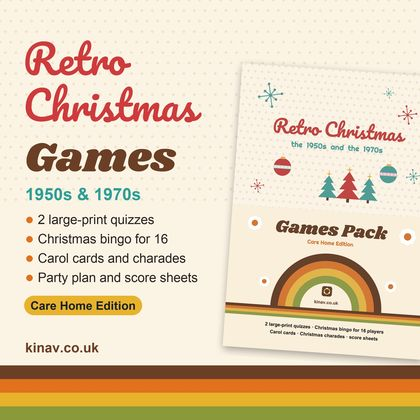
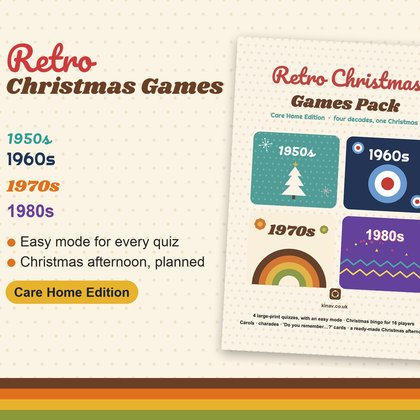
Planners page: Retro Christmas games now cover four decades, with new pictures

diff --git a/app/planners/index.html b/app/planners/index.html
@@ -26,7 +26,7 @@
 <nav class="crumbs" aria-label="Breadcrumb"><a href="/guides/">Guides</a></nav>
 <div class="stack-sm"><h1>Printable planners and calendars for carers</h1><p class="lede">Planners, checklists and calendars to print or fill in on screen, made in the UK by Kinav for families caring for an older parent.</p><p class="small"><a href="#christmas">Christmas games, activities and gifts</a> · <a href="#planners">Planners and calendars</a> · <a href="#kits">Checklists and kits</a> · <a href="#activities">Activities</a></p></div>
 <p class="panel small">Everything free on kinav.co.uk stays free. These printables are sold in the Kinav shop on Etsy, which helps keep Kinav running. Links open Etsy. To come back to Kinav, use your back button or swipe back.</p>
-<section class="stack-sm" id="christmas"><h2>Christmas games, activities and gifts</h2><div class="pp-grid"><a class="pp" href="https://www.etsy.com/listing/4612582895/christmas-bundle-for-older-relatives" rel="noopener"><img src="/shop-img/christmas-bundle.jpg" alt="" loading="lazy" width="420" height="420"><span><b>The Kinav Christmas Bundle</b><small>Retro Christmas games, Let&#x27;s Talk Christmas cards and the gift planner, together. Save over 30%.</small><em>See it in the Kinav Etsy shop ›</em></span></a><a class="pp" href="https://www.etsy.com/listing/4611384577/christmas-gift-planner-app-for-carers" rel="noopener"><img src="/shop-img/christmas-gift-planner.jpg" alt="" loading="lazy" width="420" height="420"><span><b>Christmas Gift Planner for carers</b><small>Budgets, bought, wrapped and given, and gifts from the person you care for. An app plus a printable planner.</small><em>See it in the Kinav Etsy shop ›</em></span></a><a class="pp" href="https://www.etsy.com/listing/4611376412/christmas-activities-for-care-homes-24" rel="noopener"><img src="/shop-img/christmas-activity-programme.jpg" alt="" loading="lazy" width="420" height="420"><span><b>24 Days of December, for care homes</b><small>A ready-to-run Christmas activity for every day of Advent, with three ways for every resident to join in.</small><em>See it in the Kinav Etsy shop ›</em></span></a><a class="pp" href="https://www.etsy.com/listing/4610679958/christmas-activity-reminiscence-cards" rel="noopener"><img src="/shop-img/christmas-cards.jpg" alt="" loading="lazy" width="420" height="420"><span><b>Let&#x27;s Talk Christmas pack</b><small>Christmas reminiscence cards, a quiz and word search to share Christmas memories.</small><em>See it in the Kinav Etsy shop ›</em></span></a><a class="pp" href="https://www.etsy.com/listing/4610619702/care-home-christmas-activity-pack" rel="noopener"><img src="/shop-img/christmas-cards-care-home.jpg" alt="" loading="lazy" width="420" height="420"><span><b>Let&#x27;s Talk Christmas pack: care home edition</b><small>Christmas memory cards and activities, licensed for a care home.</small><em>See it in the Kinav Etsy shop ›</em></span></a><a class="pp" href="https://www.etsy.com/listing/4610674187/printable-party-games-grandparent-gift" rel="noopener"><img src="/shop-img/retro-christmas-games.jpg" alt="" loading="lazy" width="420" height="420"><span><b>Retro Christmas games</b><small>1950s and 1970s Christmas quizzes, finish-the-carol cards, charades and bingo, in large print.</small><em>See it in the Kinav Etsy shop ›</em></span></a><a class="pp" href="https://www.etsy.com/listing/4610697448/care-home-christmas-activities-retro" rel="noopener"><img src="/shop-img/retro-christmas-games-care-home.jpg" alt="" loading="lazy" width="420" height="420"><span><b>Retro Christmas games: care home edition</b><small>The retro games, licensed for a care home or day centre.</small><em>See it in the Kinav Etsy shop ›</em></span></a></div></section>
+<section class="stack-sm" id="christmas"><h2>Christmas games, activities and gifts</h2><div class="pp-grid"><a class="pp" href="https://www.etsy.com/listing/4612582895/christmas-bundle-for-older-relatives" rel="noopener"><img src="/shop-img/christmas-bundle.jpg" alt="" loading="lazy" width="420" height="420"><span><b>The Kinav Christmas Bundle</b><small>Retro Christmas games, Let&#x27;s Talk Christmas cards and the gift planner, together. Save over 30%.</small><em>See it in the Kinav Etsy shop ›</em></span></a><a class="pp" href="https://www.etsy.com/listing/4611384577/christmas-gift-planner-app-for-carers" rel="noopener"><img src="/shop-img/christmas-gift-planner.jpg" alt="" loading="lazy" width="420" height="420"><span><b>Christmas Gift Planner for carers</b><small>Budgets, bought, wrapped and given, and gifts from the person you care for. An app plus a printable planner.</small><em>See it in the Kinav Etsy shop ›</em></span></a><a class="pp" href="https://www.etsy.com/listing/4611376412/christmas-activities-for-care-homes-24" rel="noopener"><img src="/shop-img/christmas-activity-programme.jpg" alt="" loading="lazy" width="420" height="420"><span><b>24 Days of December, for care homes</b><small>A ready-to-run Christmas activity for every day of Advent, with three ways for every resident to join in.</small><em>See it in the Kinav Etsy shop ›</em></span></a><a class="pp" href="https://www.etsy.com/listing/4610679958/christmas-activity-reminiscence-cards" rel="noopener"><img src="/shop-img/christmas-cards.jpg" alt="" loading="lazy" width="420" height="420"><span><b>Let&#x27;s Talk Christmas pack</b><small>Christmas reminiscence cards, a quiz and word search to share Christmas memories.</small><em>See it in the Kinav Etsy shop ›</em></span></a><a class="pp" href="https://www.etsy.com/listing/4610619702/care-home-christmas-activity-pack" rel="noopener"><img src="/shop-img/christmas-cards-care-home.jpg" alt="" loading="lazy" width="420" height="420"><span><b>Let&#x27;s Talk Christmas pack: care home edition</b><small>Christmas memory cards and activities, licensed for a care home.</small><em>See it in the Kinav Etsy shop ›</em></span></a><a class="pp" href="https://www.etsy.com/listing/4610674187/printable-party-games-grandparent-gift" rel="noopener"><img src="/shop-img/retro-christmas-games.jpg" alt="" loading="lazy" width="420" height="420"><span><b>Retro Christmas games</b><small>Christmas quizzes from the 1950s to the 1980s, so everyone plays their decade. Bingo, carols, charades and an easy mode.</small><em>See it in the Kinav Etsy shop ›</em></span></a><a class="pp" href="https://www.etsy.com/listing/4610697448/care-home-christmas-activities-retro" rel="noopener"><img src="/shop-img/retro-christmas-games-care-home.jpg" alt="" loading="lazy" width="420" height="420"><span><b>Retro Christmas games: care home edition</b><small>Four decades of Christmas quizzes, with an easy mode, licensed for a care home or day centre.</small><em>See it in the Kinav Etsy shop ›</em></span></a></div></section>
 <section class="stack-sm" id="planners"><h2>Planners and calendars</h2><div class="pp-grid"><a class="pp" href="https://www.etsy.com/listing/4610543809/2027-large-print-calendar-printable" rel="noopener"><img src="/shop-img/calendar-2027.jpg" alt="" loading="lazy" width="420" height="420"><span><b>2027 large-print calendar</b><small>Big, clear months for appointments, visits and bin days. Print it or fill it in on screen.</small><em>See it in the Kinav Etsy shop ›</em></span></a><a class="pp" href="https://www.etsy.com/listing/4610544522/elderly-parent-care-binder-125-page" rel="noopener"><img src="/shop-img/care-binder.jpg" alt="" loading="lazy" width="420" height="420"><span><b>Elderly parent care binder (UK)</b><small>174 pages: every Kinav planner and kit in one binder, in three colour styles.</small><em>See it in the Kinav Etsy shop ›</em></span></a><a class="pp" href="https://www.etsy.com/listing/4606518980/care-planning" rel="noopener"><img src="/shop-img/care-planner.jpg" alt="" loading="lazy" width="420" height="420"><span><b>Elderly parent care planner</b><small>Contacts, medicines list, appointments and who does what.</small><em>See it in the Kinav Etsy shop ›</em></span></a><a class="pp" href="https://www.etsy.com/listing/4611074567/carers-budget-planner-uk-printable-pdf" rel="noopener"><img src="/shop-img/carers-budget-planner.jpg" alt="" loading="lazy" width="420" height="420"><span><b>Carer&#x27;s budget planner</b><small>Monthly budget, caring costs and who pays what. Printable, plus an Excel spreadsheet.</small><em>See it in the Kinav Etsy shop ›</em></span></a><a class="pp" href="https://www.etsy.com/listing/4611241685/care-organiser-spreadsheet-uk-medication" rel="noopener"><img src="/shop-img/care-spreadsheet.jpg" alt="" loading="lazy" width="420" height="420"><span><b>Care organiser spreadsheet</b><small>Medicines chart, health log, appointments and care costs that add themselves up. For Excel and Google Sheets.</small><em>See it in the Kinav Etsy shop ›</em></span></a><a class="pp" href="https://www.etsy.com/listing/4610530561/caregiver-daily-log-printable-fillable" rel="noopener"><img src="/shop-img/daily-log.jpg" alt="" loading="lazy" width="420" height="420"><span><b>Caregiver daily log</b><small>Daily notes and handover sheets for the family or carers.</small><em>See it in the Kinav Etsy shop ›</em></span></a><a class="pp" href="https://www.etsy.com/listing/4610524094/dementia-care-planner-uk-printable" rel="noopener"><img src="/shop-img/dementia-planner.jpg" alt="" loading="lazy" width="420" height="420"><span><b>Dementia care planner</b><small>Routines, what helps, and planning ahead, for families caring for someone with dementia.</small><em>See it in the Kinav Etsy shop ›</em></span></a><a class="pp" href="https://www.etsy.com/listing/4610527265/just-in-case-binder-uk-life-admin" rel="noopener"><img src="/shop-img/life-admin-binder.jpg" alt="" loading="lazy" width="420" height="420"><span><b>Just-in-case binder</b><small>Where everything is, who to call, accounts and wishes, in one place.</small><em>See it in the Kinav Etsy shop ›</em></span></a><a class="pp" href="https://www.etsy.com/listing/4610501544/elderly-parent-care-bundle-care-planner" rel="noopener"><img src="/shop-img/bundle.jpg" alt="" loading="lazy" width="420" height="420"><span><b>Complete carer&#x27;s bundle</b><small>The main planners and checklists together, for less.</small><em>See it in the Kinav Etsy shop ›</em></span></a></div></section>
 <section class="stack-sm" id="kits"><h2>Checklists and kits</h2><div class="pp-grid"><a class="pp" href="https://www.etsy.com/listing/4610570617/attendance-allowance-claim-kit-uk" rel="noopener"><img src="/shop-img/attendance-allowance.jpg" alt="" loading="lazy" width="420" height="420"><span><b>Attendance Allowance claim kit</b><small>A care diary and prompts for the form, so you don&#x27;t miss what matters.</small><em>See it in the Kinav Etsy shop ›</em></span></a><a class="pp" href="https://www.etsy.com/listing/4611923791/care-needs-assessment-kit-uk-pdf-and" rel="noopener"><img src="/shop-img/needs-assessment.jpg" alt="" loading="lazy" width="420" height="420"><span><b>Care needs assessment kit</b><small>Get ready for the council&#x27;s assessment, with a diary and letters.</small><em>See it in the Kinav Etsy shop ›</em></span></a><a class="pp" href="https://www.etsy.com/listing/4610469119/hospital-discharge-checklist-printable" rel="noopener"><img src="/shop-img/hospital-discharge.jpg" alt="" loading="lazy" width="420" height="420"><span><b>Leaving hospital checklist</b><small>Questions for the ward and getting the home ready.</small><em>See it in the Kinav Etsy shop ›</em></span></a><a class="pp" href="https://www.etsy.com/listing/4610539380/care-home-visit-checklist-printable-and" rel="noopener"><img src="/shop-img/care-home-visit-pack.jpg" alt="" loading="lazy" width="420" height="420"><span><b>Care home visit checklist</b><small>Questions to ask, a scorecard and a side-by-side comparison.</small><em>See it in the Kinav Etsy shop ›</em></span></a><a class="pp" href="https://www.etsy.com/listing/4611943646/moving-into-a-care-home-checklist-pdf" rel="noopener"><img src="/shop-img/moving-into-a-care-home.jpg" alt="" loading="lazy" width="420" height="420"><span><b>Moving into a care home</b><small>Packing list, an &#x27;About me&#x27; profile and the first weeks.</small><em>See it in the Kinav Etsy shop ›</em></span></a><a class="pp" href="https://www.etsy.com/listing/4611932219/lasting-power-of-attorney-kit-pdf-and" rel="noopener"><img src="/shop-img/lpa-organiser.jpg" alt="" loading="lazy" width="420" height="420"><span><b>Lasting Power of Attorney kit</b><small>Step by step, with a record book for attorneys.</small><em>See it in the Kinav Etsy shop ›</em></span></a><a class="pp" href="https://www.etsy.com/shop/KinavUK?search_query=bills+and+paperwork" rel="noopener"><img src="/shop-img/household-paperwork.jpg" alt="" loading="lazy" width="420" height="420"><span><b>Bills and paperwork kit</b><small>Accounts, direct debits and paperwork, all in one place.</small><em>See it in the Kinav Etsy shop ›</em></span></a><a class="pp" href="https://www.etsy.com/shop/KinavUK?search_query=emergency+plan" rel="noopener"><img src="/shop-img/carers-emergency-plan.jpg" alt="" loading="lazy" width="420" height="420"><span><b>Carer&#x27;s emergency plan</b><small>An &#x27;if I can&#x27;t be there&#x27; plan and a wallet card.</small><em>See it in the Kinav Etsy shop ›</em></span></a><a class="pp" href="https://www.etsy.com/listing/4605940380/planning-ahead-pack-end-of-life-planner" rel="noopener"><img src="/shop-img/planning-ahead.jpg" alt="" loading="lazy" width="420" height="420"><span><b>Planning ahead pack</b><small>Wishes, will and power of attorney checklists.</small><em>See it in the Kinav Etsy shop ›</em></span></a><a class="pp" href="https://www.etsy.com/listing/4610477309/after-a-death-checklist-printable" rel="noopener"><img src="/shop-img/after-a-death.jpg" alt="" loading="lazy" width="420" height="420"><span><b>After a death checklist</b><small>What to do, who to tell, and funeral planning.</small><em>See it in the Kinav Etsy shop ›</em></span></a><a class="pp" href="https://www.etsy.com/shop/KinavUK?search_query=divorce+planner" rel="noopener"><img src="/shop-img/later-life-divorce.jpg" alt="" loading="lazy" width="420" height="420"><span><b>Divorce planner, over 60</b><small>Money, pensions and the home, step by step.</small><em>See it in the Kinav Etsy shop ›</em></span></a><a class="pp" href="https://www.etsy.com/listing/4610484887/carer-letter-templates-editable-word-and" rel="noopener"><img src="/shop-img/letter-pack.jpg" alt="" loading="lazy" width="420" height="420"><span><b>Carer letter templates</b><small>Editable letters for the council, employers and more.</small><em>See it in the Kinav Etsy shop ›</em></span></a></div></section>
 <section class="stack-sm" id="activities"><h2>Activities</h2><div class="pp-grid"><a class="pp" href="https://www.etsy.com/listing/4611935151/reminiscence-cards-for-elderly-128" rel="noopener"><img src="/shop-img/reminiscence-cards.jpg" alt="" loading="lazy" width="420" height="420"><span><b>Let&#x27;s Talk reminiscence cards</b><small>120 cards to spark memories and conversation, at home or in a care home.</small><em>See it in the Kinav Etsy shop ›</em></span></a></div></section>

diff --git a/app/index.html b/app/index.html
@@ -381,7 +381,7 @@ a.chip { display: inline-flex; align-items: center; text-decoration: none; }
     <a class="stile s-kits" href="#help"><span class="sico"><svg width="22" height="22" viewBox="0 0 24 24" fill="none" stroke="currentColor" stroke-width="2" stroke-linecap="round" stroke-linejoin="round" aria-hidden="true"><path d="M9 6h11M9 12h11M9 18h11M4 6l1 1 2-2M4 12l1 1 2-2M4 18l1 1 2-2"/></svg></span><b>Kits and guides</b><span>Step by step, with what to say</span></a>
     <a class="stile s-letter" href="#letters"><span class="sico"><svg width="22" height="22" viewBox="0 0 24 24" fill="none" stroke="currentColor" stroke-width="2" stroke-linecap="round" stroke-linejoin="round" aria-hidden="true"><rect x="3" y="5" width="18" height="14" rx="2"/><path d="M3 7l9 6 9-6"/></svg></span><b>Letters and complaints</b><span>To the council, NHS, care providers and CQC</span></a>
     <a class="stile s-rota" href="#rota"><span class="sico"><svg width="22" height="22" viewBox="0 0 24 24" fill="none" stroke="currentColor" stroke-width="2" stroke-linecap="round" stroke-linejoin="round" aria-hidden="true"><circle cx="9" cy="8" r="3"/><circle cx="17" cy="9" r="2.5"/><path d="M3 20c0-3.3 2.7-6 6-6s6 2.7 6 6M15 14.5c3 0 6 1.8 6 5.5"/></svg></span><b>Share out the jobs</b><span>Who does what, sent to the family</span></a>
-    <a class="stile s-xmas home-xmas" href="/planners/#christmas"><span class="sico"><svg width="22" height="22" viewBox="0 0 24 24" fill="none" stroke="currentColor" stroke-width="2" stroke-linecap="round" stroke-linejoin="round" aria-hidden="true"><path d="M12 2l3 5h-2l3 5h-2l4 6H6l4-6H8l3-5H9z"/><path d="M12 18v4"/></svg></span><b>Christmas games and activities</b><span>1950s and 1970s quizzes, bingo and carols for older people, plus care home Christmas activities</span></a>
+    <a class="stile s-xmas home-xmas" href="/planners/#christmas"><span class="sico"><svg width="22" height="22" viewBox="0 0 24 24" fill="none" stroke="currentColor" stroke-width="2" stroke-linecap="round" stroke-linejoin="round" aria-hidden="true"><path d="M12 2l3 5h-2l3 5h-2l4 6H6l4-6H8l3-5H9z"/><path d="M12 18v4"/></svg></span><b>Christmas games and activities</b><span>Quizzes from the 1950s to the 1980s, bingo and carols for older people, plus care home Christmas activities</span></a>
     <a class="stile s-plan" href="/planners/"><span class="sico"><svg width="22" height="22" viewBox="0 0 24 24" fill="none" stroke="currentColor" stroke-width="2" stroke-linecap="round" stroke-linejoin="round" aria-hidden="true"><rect x="4" y="5" width="16" height="16" rx="2"/><path d="M8 3v4M16 3v4M4 10h16M8 14h2M14 14h2M8 17h2"/></svg></span><b>Printable planners and calendars</b><span>Care binder, budget planner, a 2027 large-print calendar and Christmas</span></a>
   </nav>
   <div class="card" id="areaCard" hidden>

diff --git a/app/page.html b/app/page.html
@@ -372,7 +372,7 @@ a.chip { display: inline-flex; align-items: center; text-decoration: none; }
     <a class="stile s-kits" href="#help"><span class="sico"><svg width="22" height="22" viewBox="0 0 24 24" fill="none" stroke="currentColor" stroke-width="2" stroke-linecap="round" stroke-linejoin="round" aria-hidden="true"><path d="M9 6h11M9 12h11M9 18h11M4 6l1 1 2-2M4 12l1 1 2-2M4 18l1 1 2-2"/></svg></span><b>Kits and guides</b><span>Step by step, with what to say</span></a>
     <a class="stile s-letter" href="#letters"><span class="sico"><svg width="22" height="22" viewBox="0 0 24 24" fill="none" stroke="currentColor" stroke-width="2" stroke-linecap="round" stroke-linejoin="round" aria-hidden="true"><rect x="3" y="5" width="18" height="14" rx="2"/><path d="M3 7l9 6 9-6"/></svg></span><b>Letters and complaints</b><span>To the council, NHS, care providers and CQC</span></a>
     <a class="stile s-rota" href="#rota"><span class="sico"><svg width="22" height="22" viewBox="0 0 24 24" fill="none" stroke="currentColor" stroke-width="2" stroke-linecap="round" stroke-linejoin="round" aria-hidden="true"><circle cx="9" cy="8" r="3"/><circle cx="17" cy="9" r="2.5"/><path d="M3 20c0-3.3 2.7-6 6-6s6 2.7 6 6M15 14.5c3 0 6 1.8 6 5.5"/></svg></span><b>Share out the jobs</b><span>Who does what, sent to the family</span></a>
-    <a class="stile s-xmas home-xmas" href="/planners/#christmas"><span class="sico"><svg width="22" height="22" viewBox="0 0 24 24" fill="none" stroke="currentColor" stroke-width="2" stroke-linecap="round" stroke-linejoin="round" aria-hidden="true"><path d="M12 2l3 5h-2l3 5h-2l4 6H6l4-6H8l3-5H9z"/><path d="M12 18v4"/></svg></span><b>Christmas games and activities</b><span>1950s and 1970s quizzes, bingo and carols for older people, plus care home Christmas activities</span></a>
+    <a class="stile s-xmas home-xmas" href="/planners/#christmas"><span class="sico"><svg width="22" height="22" viewBox="0 0 24 24" fill="none" stroke="currentColor" stroke-width="2" stroke-linecap="round" stroke-linejoin="round" aria-hidden="true"><path d="M12 2l3 5h-2l3 5h-2l4 6H6l4-6H8l3-5H9z"/><path d="M12 18v4"/></svg></span><b>Christmas games and activities</b><span>Quizzes from the 1950s to the 1980s, bingo and carols for older people, plus care home Christmas activities</span></a>
     <a class="stile s-plan" href="/planners/"><span class="sico"><svg width="22" height="22" viewBox="0 0 24 24" fill="none" stroke="currentColor" stroke-width="2" stroke-linecap="round" stroke-linejoin="round" aria-hidden="true"><rect x="4" y="5" width="16" height="16" rx="2"/><path d="M8 3v4M16 3v4M4 10h16M8 14h2M14 14h2M8 17h2"/></svg></span><b>Printable planners and calendars</b><span>Care binder, budget planner, a 2027 large-print calendar and Christmas</span></a>
   </nav>
   <div class="card" id="areaCard" hidden>

diff --git a/update/build_guides.py b/update/build_guides.py
@@ -457,8 +457,8 @@ PLANNERS = [
         ("christmas-activity-programme", "24 Days of December, for care homes", "A ready-to-run Christmas activity for every day of Advent, with three ways for every resident to join in.", "24 day december"),
         ("christmas-cards", "Let's Talk Christmas pack", "Christmas reminiscence cards, a quiz and word search to share Christmas memories.", "christmas reminiscence"),
         ("christmas-cards-care-home", "Let's Talk Christmas pack: care home edition", "Christmas memory cards and activities, licensed for a care home.", "care home christmas activity pack"),
-        ("retro-christmas-games", "Retro Christmas games", "1950s and 1970s Christmas quizzes, finish-the-carol cards, charades and bingo, in large print.", "retro christmas games"),
-        ("retro-christmas-games-care-home", "Retro Christmas games: care home edition", "The retro games, licensed for a care home or day centre.", "care home retro christmas")]),
+        ("retro-christmas-games", "Retro Christmas games", "Christmas quizzes from the 1950s to the 1980s, so everyone plays their decade. Bingo, carols, charades and an easy mode.", "retro christmas games"),
+        ("retro-christmas-games-care-home", "Retro Christmas games: care home edition", "Four decades of Christmas quizzes, with an easy mode, licensed for a care home or day centre.", "care home retro christmas")]),
     ("Planners and calendars", "planners", [
         ("calendar-2027", "2027 large-print calendar", "Big, clear months for appointments, visits and bin days. Print it or fill it in on screen.", "2027 calendar"),
         ("care-binder", "Elderly parent care binder (UK)", "174 pages: every Kinav planner and kit in one binder, in three colour styles.", "care binder"),
